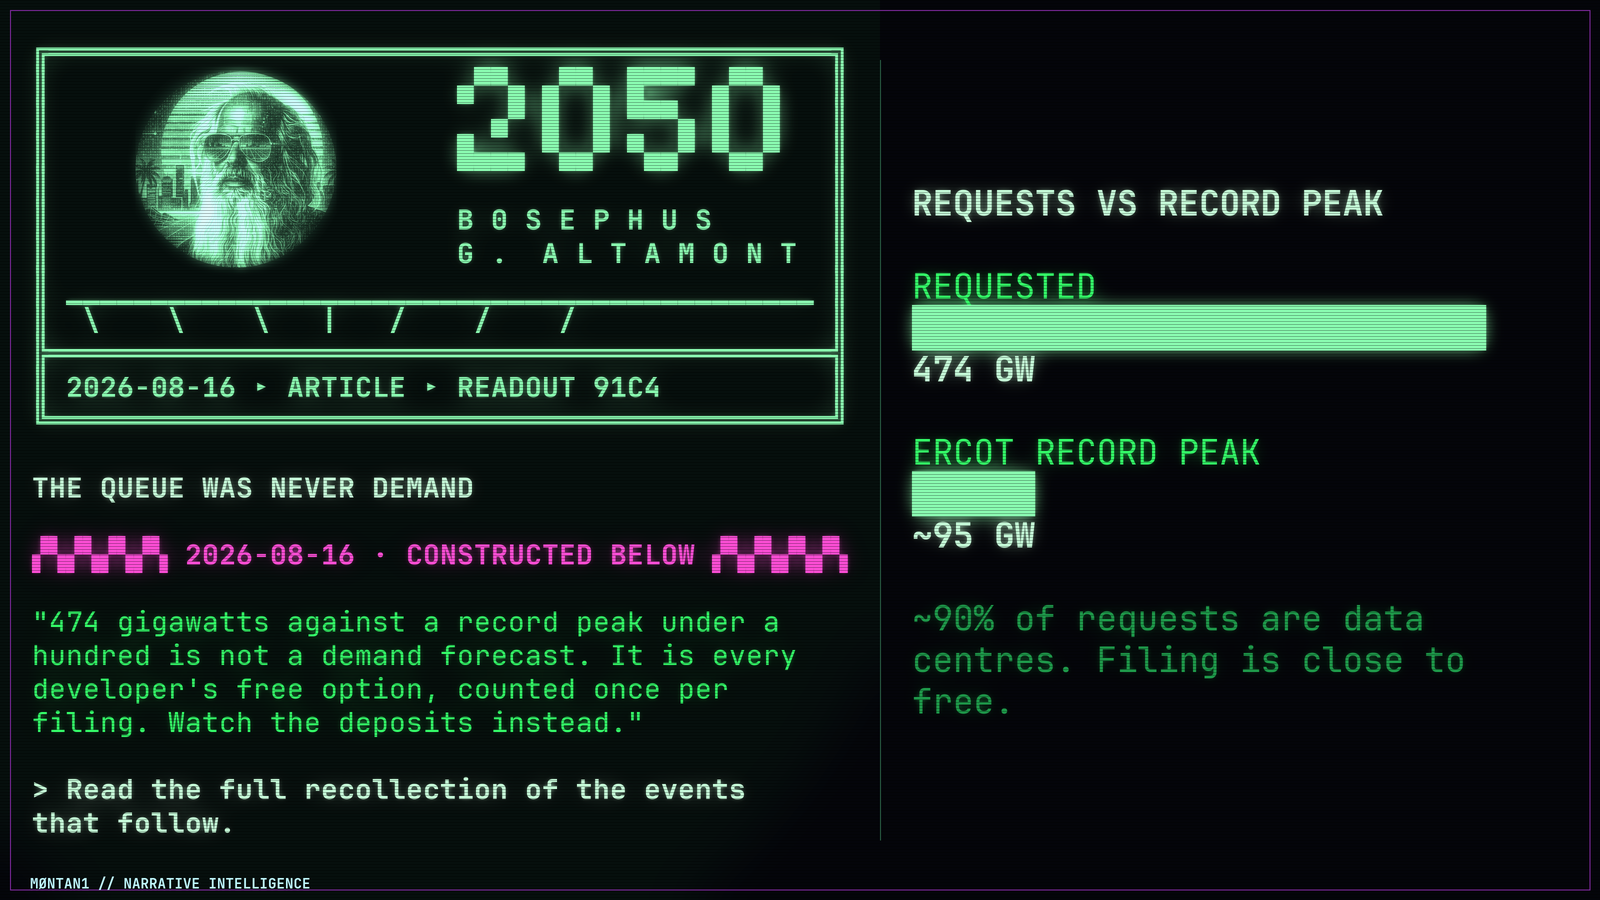
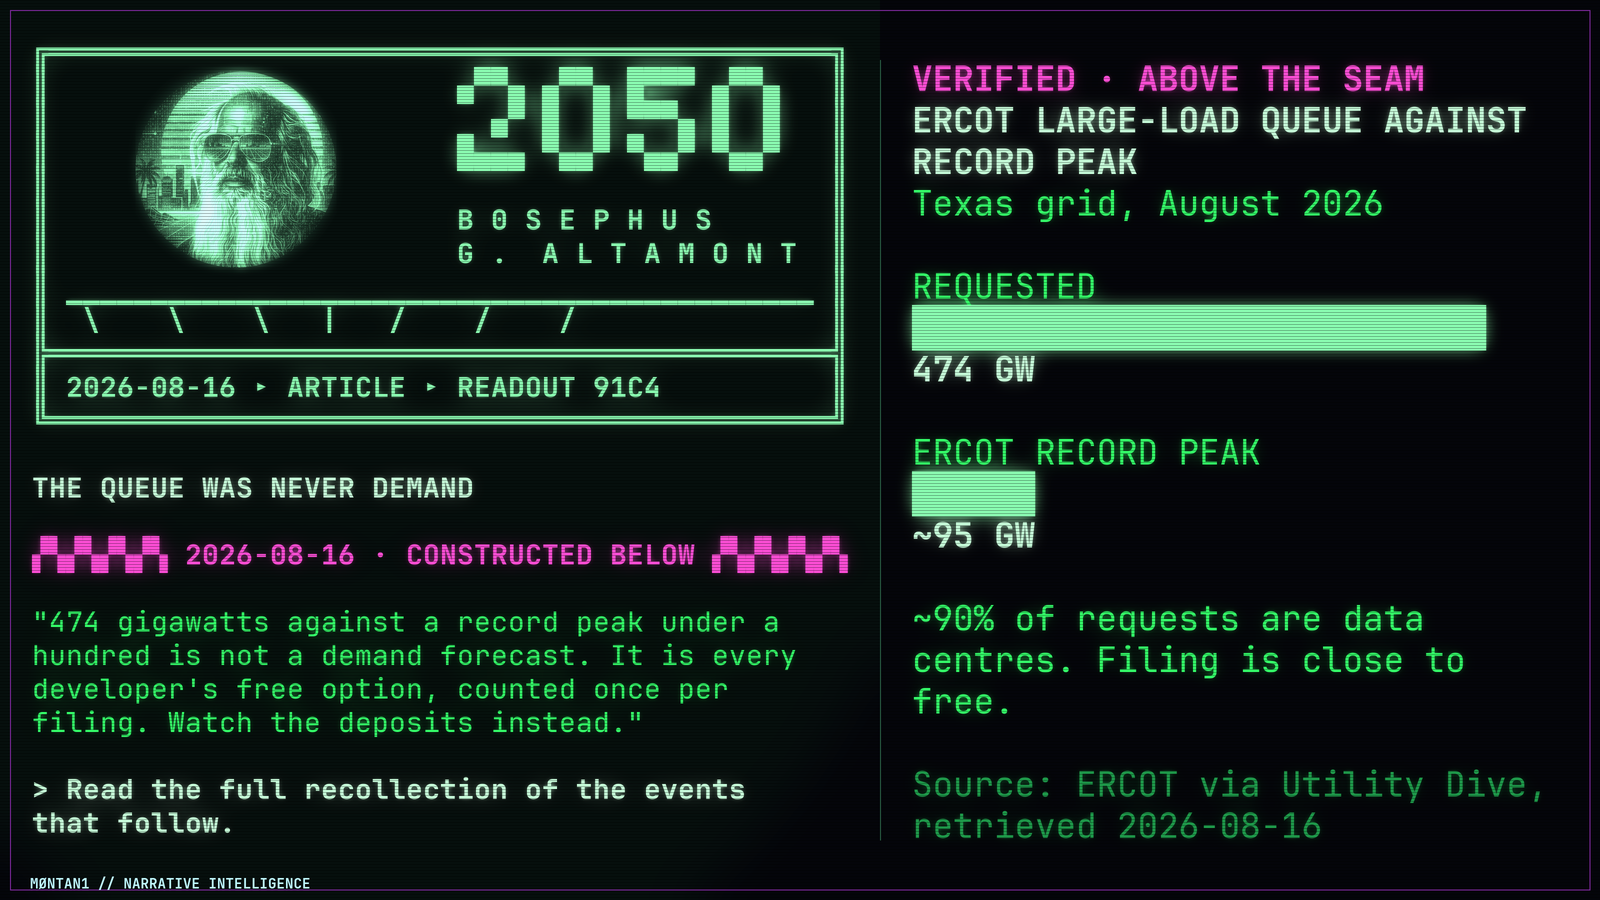
Data panel names itself, and cannot ship unattributed
A viewer arriving cold from a link preview saw bars and a unit with no
way to know what they were looking at. The panel now carries an eyebrow,
a title, a subtitle placing it in space and time, and a source line.

`source` is required and bar_lines() refuses without it. A chart with no
attribution is the one place this engine's cited-numbers rule would
quietly break, and it would break on the most-shared surface it has.

The eyebrow defaults to VERIFIED · ABOVE THE SEAM, which does two jobs:
it tells a cold viewer what kind of thing the panel is, and it marks the
numbers as coming from the retrieved half. In an engine built on a seam,
which side a number sits on is not decoration.

diff --git a/engine/render_wide.py b/engine/render_wide.py
@@ -28,8 +28,13 @@ Card JSON gains an optional `figures`:
         {"label": "Requested",   "value": 474},
         {"label": "Record peak", "value": 95, "approx": true}
       ],
-      "note": "~90% of requests are data centres"
+      "subtitle": "Texas, August 2026",
+      "note": "~90% of requests are data centres",
+      "source": "ERCOT via Utility Dive, retrieved 2026-08-16"
     }
+
+`source` is required. A chart with no attribution is the one place the cited
+numbers rule would quietly break.
 """
 import argparse
 import json
@@ -69,8 +74,16 @@ def bar_lines(fig):
     top = max(b["value"] for b in bars) or 1
 
     out = []
-    for ln in wrap(fig["title"].upper(), PANEL_COLS)[:2]:
+    # Eyebrow. Does two jobs: tells a cold viewer what kind of thing this panel
+    # is, and marks it as coming from the cited half of the readout. In an
+    # engine built on a seam, which side a number sits on is not decoration.
+    out.append((fig.get("eyebrow", "VERIFIED · ABOVE THE SEAM")[:PANEL_COLS],
+                PINK, True))
+    for ln in wrap(fig["title"].upper(), PANEL_COLS)[:3]:
         out.append((ln, HEAD, True))
+    if fig.get("subtitle"):
+        for ln in wrap(fig["subtitle"], PANEL_COLS)[:2]:
+            out.append((ln, GREEN, False))
     out.append(("", GREEN, False))
     for b in bars:
         val = b["value"]
@@ -87,6 +100,14 @@ def bar_lines(fig):
         out.append((shown, HEAD, True))
         out.append(("", GREEN, False))
     for ln in wrap(fig.get("note", ""), PANEL_COLS)[:3]:
+        out.append((ln, GREEN, False))
+    if not fig.get("source"):
+        raise SystemExit(
+            "The data panel has no `source`. Every number this engine shows is "
+            "cited; a chart without an attribution is the one place that rule "
+            "would quietly break.")
+    out.append(("", GREEN, False))
+    for ln in wrap("Source: " + fig["source"], PANEL_COLS)[:3]:
         out.append((ln, DIM, False))
     return out
 

diff --git a/engine/test_renderers.py b/engine/test_renderers.py
@@ -109,7 +109,8 @@ check("render_wide terminal panel is wide enough for 48 cols",
 fig = {"title": "A title long enough that it has to wrap somewhere",
        "unit": "GW", "bars": [{"label": "Requested", "value": 474},
                               {"label": "Record peak", "value": 95}],
-       "note": "A note long enough that it also has to wrap more than once."}
+       "note": "A note long enough that it also has to wrap more than once.",
+       "source": "Somewhere, retrieved today"}
 pl = rww.bar_lines(fig)
 over = [l for l, _c, _b in pl if len(l) > rww.PANEL_COLS]
 check("data panel wraps to panel width", not over, "over-wide: %s" % over[:2])
@@ -117,10 +118,21 @@ joined = " ".join(l for l, _c, _b in pl)
 lost = [w for w in fig["note"].split() if w not in joined]
 check("data panel loses no words from the note", not lost, "lost %s" % lost[:3])
 try:
-    rww.bar_lines({"title": "t", "bars": [{"label": "X" * 60, "value": 1}]})
+    rww.bar_lines({"title": "t", "source": "s",
+                   "bars": [{"label": "X" * 60, "value": 1}]})
     check("data panel refuses an over-long bar label", False, "truncated")
 except SystemExit as e:
     check("data panel refuses an over-long bar label", "too long" in str(e))
+
+# a chart with no attribution is the one place the cited-numbers rule would break
+try:
+    rww.bar_lines({"title": "t", "bars": [{"label": "a", "value": 1}]})
+    check("data panel refuses without a source", False, "rendered unattributed")
+except SystemExit as e:
+    check("data panel refuses without a source", "source" in str(e).lower())
+
+check("data panel names what it shows",
+      any("VERIFIED" in l for l, _c, _b in rww.bar_lines(fig)))
 check("wrap() honours a custom width",
       max(len(l) for l in rc.wrap("word " * 40, 20)) <= 20)
 

diff --git a/SPEC.md b/SPEC.md
@@ -284,6 +284,10 @@ The panel takes an optional `figures` block on the card and scales the bars to t
 
 Pick the comparison that *is* the thesis. If the panel needs three bars to make a point, it is the wrong point.
 
+**The panel must name itself.** A viewer arriving cold from a link preview sees bars and a unit and nothing else, so the panel carries an eyebrow, a title, a subtitle placing it in space and time, and a source. `source` is required and the renderer refuses without it: a chart with no attribution is the one place this engine's cited-numbers rule would quietly break.
+
+The eyebrow defaults to `VERIFIED · ABOVE THE SEAM` and is worth keeping. It tells a cold viewer what kind of thing they are looking at, and it marks the panel as belonging to the retrieved half of the readout. In an engine built on a seam, which side a number sits on is not decoration.
+
 For chat surfaces, `tools/render_ansi.py` emits the Discord-ready fenced block from the same card JSON and the same line builder, so the text cut and the PNG cut cannot drift and the seam cannot come out green:
 
 ```
